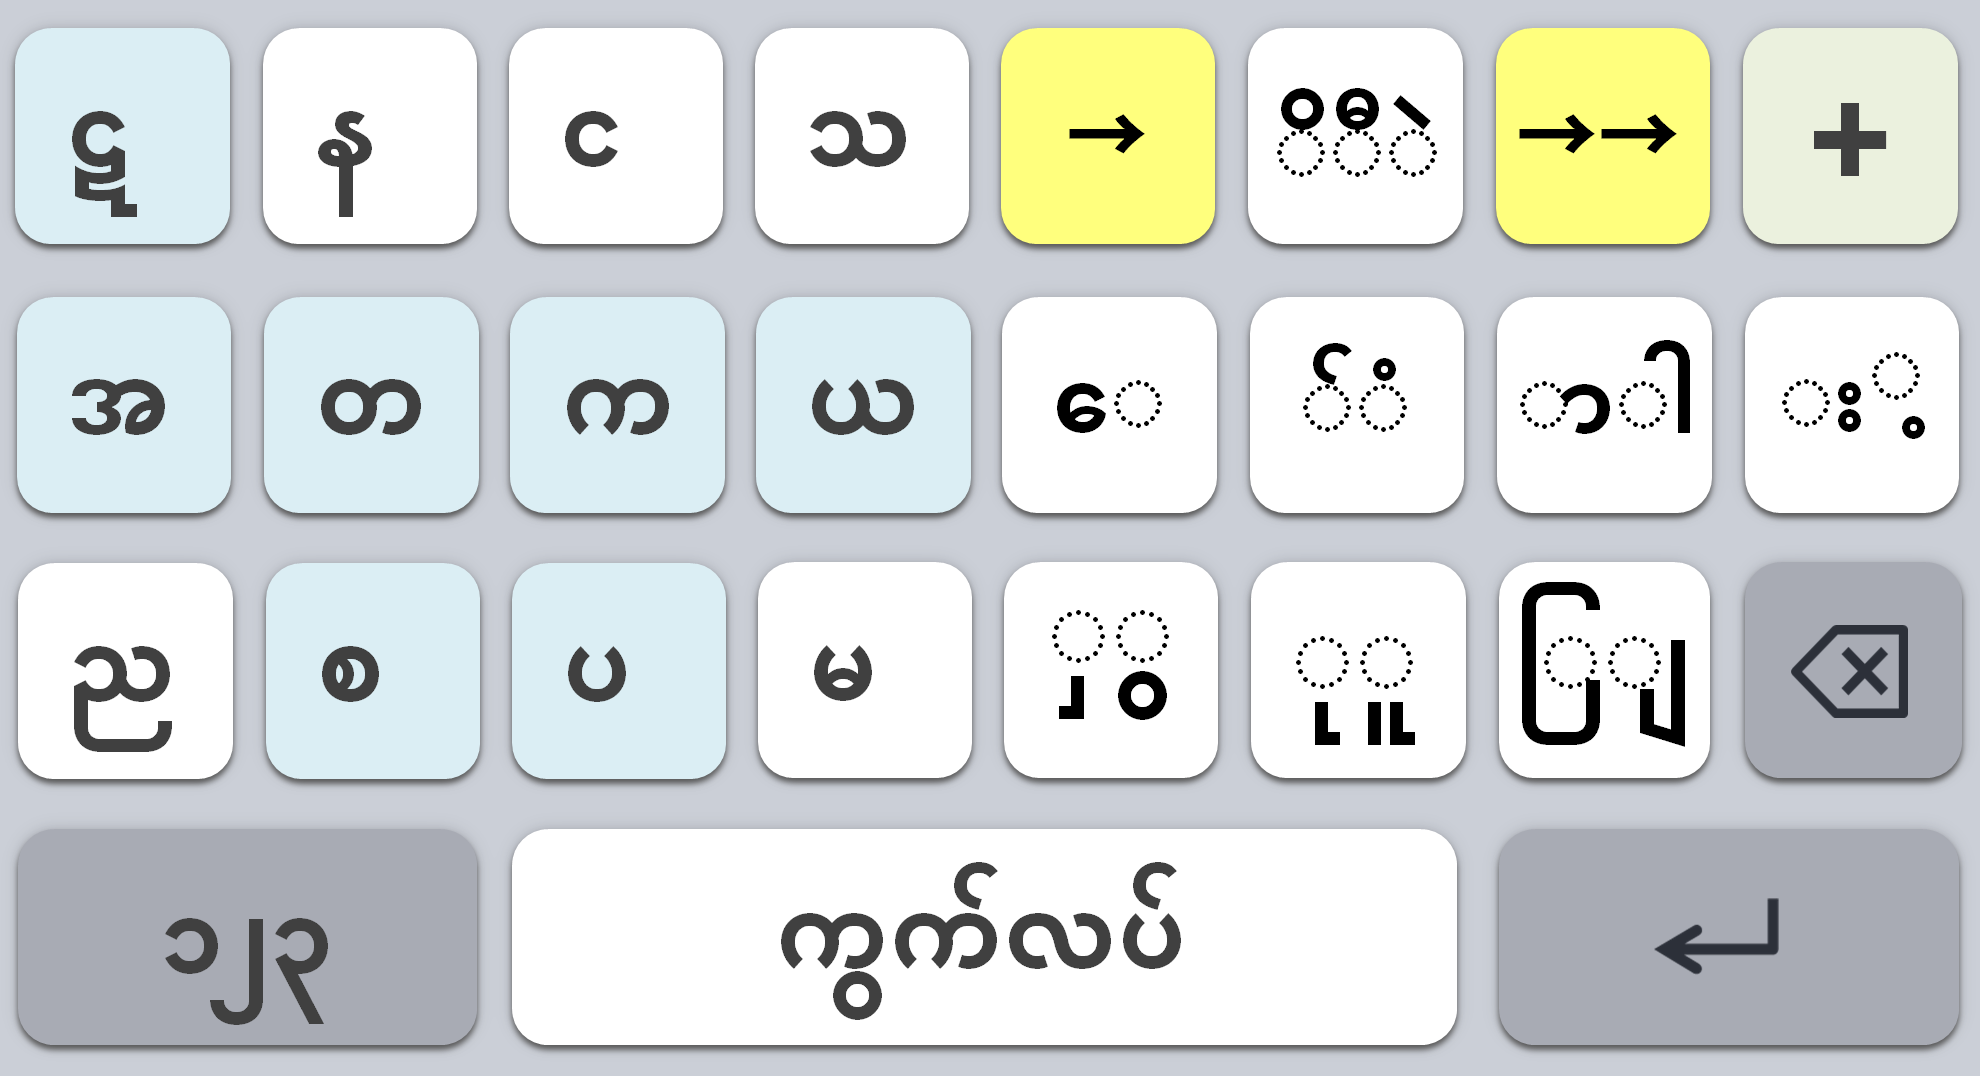
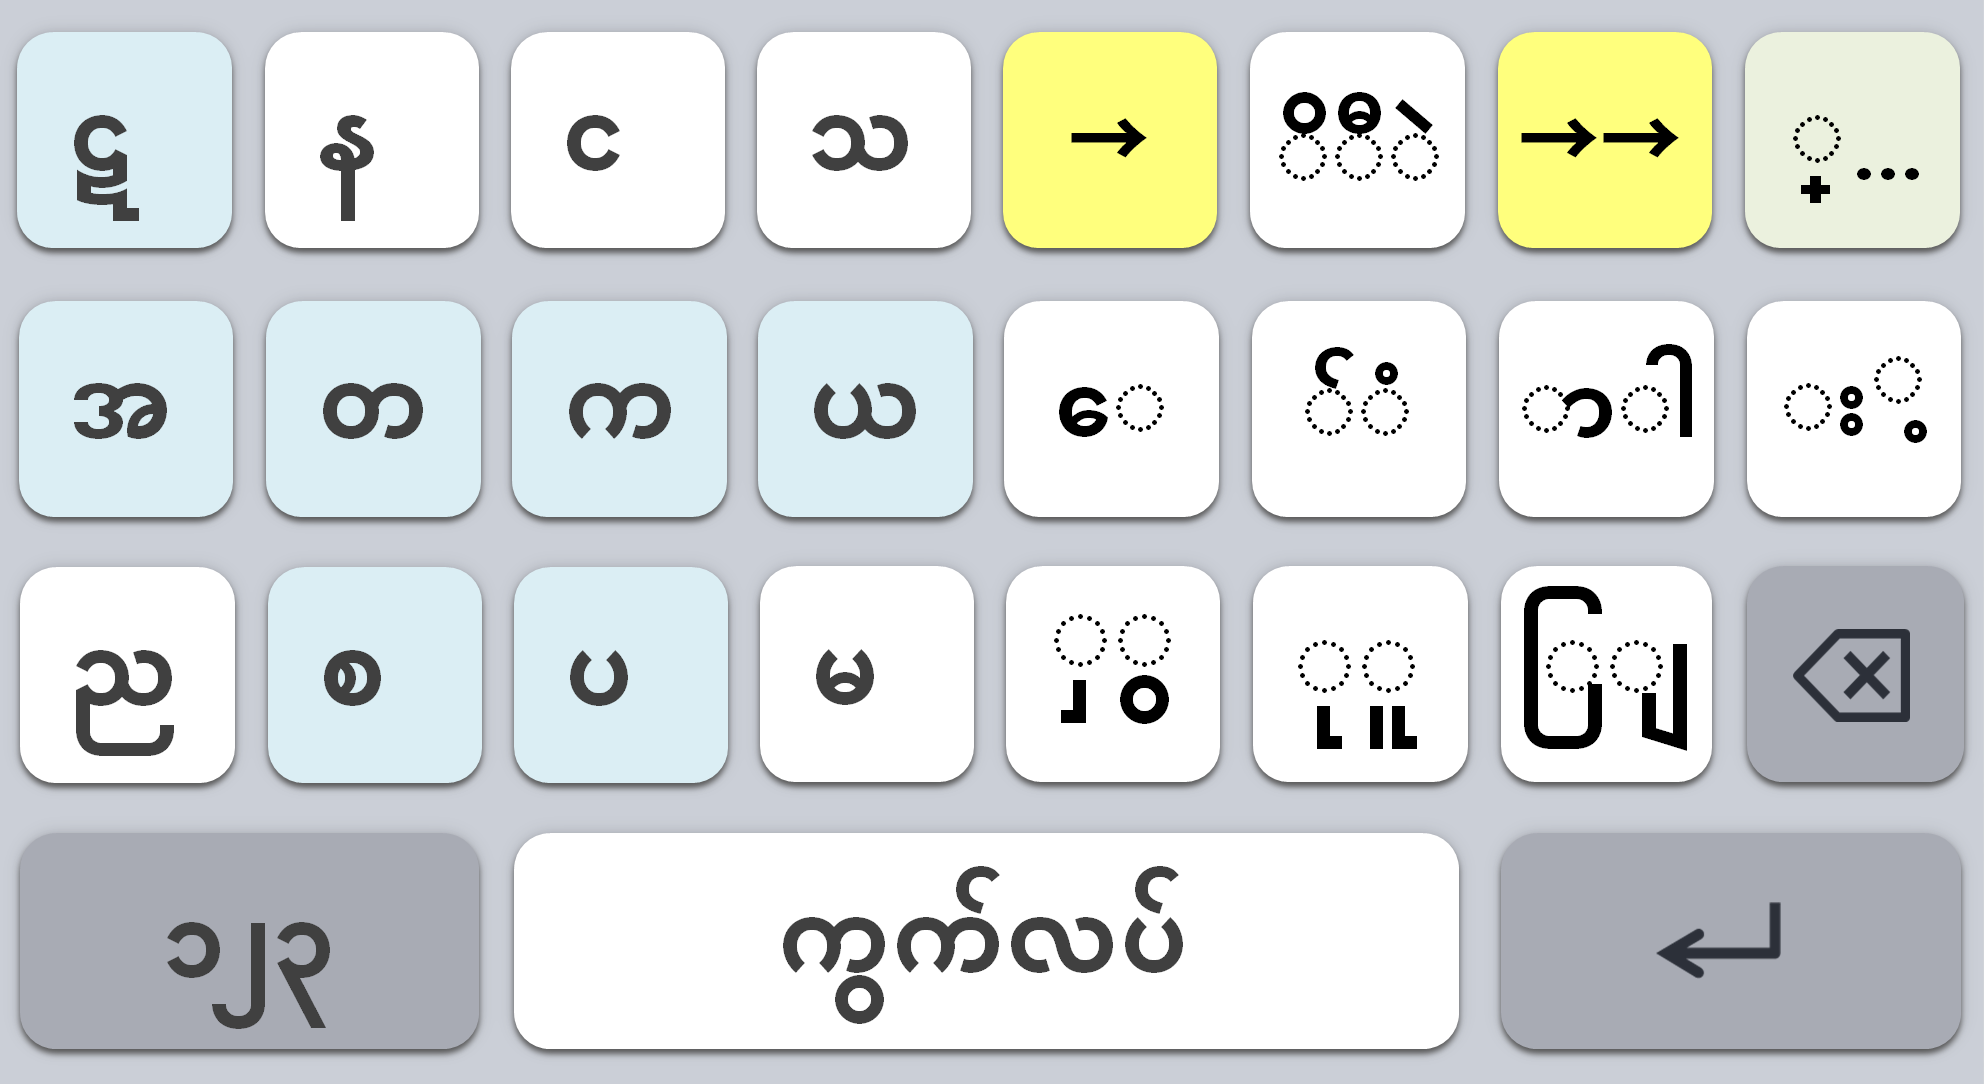
Add files via upload

diff --git a/index.html b/index.html
@@ -133,9 +133,9 @@
             </div>
             <div class="md:w-1/2">
                 <h3 class="text-2xl font-bold mb-6 text-gray-800">ဗျည်းဆင့်၊ သီးခြားသရနှင့် အထူးသင်္ကေတများ</h3>
-                <p class="text-gray-600 mb-6 font-medium">အခြေခံဗျည်းနှင့် သရများမှလွဲ၍ ကျန်ရှိသော ခလုတ်များကို Plus ခလုတ်တွင် စုစည်းထားပါသည်။</p>
+                <p class="text-gray-600 mb-6 font-medium">အခြေခံဗျည်းနှင့် သရများမှလွဲ၍ ကျန်ရှိသော ခလုတ်များကို ္... ခလုတ်တွင် စုစည်းထားပါသည်။</p>
                 <div class="bg-blue-50 p-6 rounded-xl inline-block">
-                    <p class="text-blue-700 font-bold text-lg">ညာဘက်အပေါ်ထောင့်ရှိ <span class="underline">Plus(+) ခလုတ်</span> ကို နှိပ်ပါ။</p>
+                    <p class="text-blue-700 font-bold text-lg">ညာဘက်အပေါ်ထောင့်ရှိ ္... ခလုတ်ကို နှိပ်ပါ။</p>
                 </div>
             </div>
         </div>

diff --git a/mobile_demo.html b/mobile_demo.html
@@ -263,7 +263,7 @@ function render() {
                 else {
                     if (stepMapRow[k]) keyDiv.classList.add('base-key');
                     if (k === 'p' && state.isPlusMode) keyDiv.classList.add('plus-active');
-                    let label = (stepMapRow[k] ? stepMapRow[k][0] : (nasalKeys[key] || (k==='p' ? (state.isPlusMode ? '×' : '+') : key.toUpperCase())));
+                    let label = (stepMapRow[k] ? stepMapRow[k][0] : (nasalKeys[key] || (k==='p' ? (state.isPlusMode ? '×' : '္...') : key.toUpperCase())));
                     keyDiv.innerText = label;
                 }
             }

diff --git a/pc_demo_windows.html b/pc_demo_windows.html
@@ -265,7 +265,7 @@ function updateKbdUI() {
         let label = k.toUpperCase();
         if (stepMapRow[k]) { label = stepMapRow[k][0]; el.classList.add('base-key'); }
         else if (nasalKeys[k]) { label = nasalKeys[k]; }
-        else if (k === 'p') { label = "+"; }
+        else if (k === 'p') { label = "္…"; }
 
         if (state.isPlusMode) {
             if (['o', ';'].includes(k)) { label = ""; }
